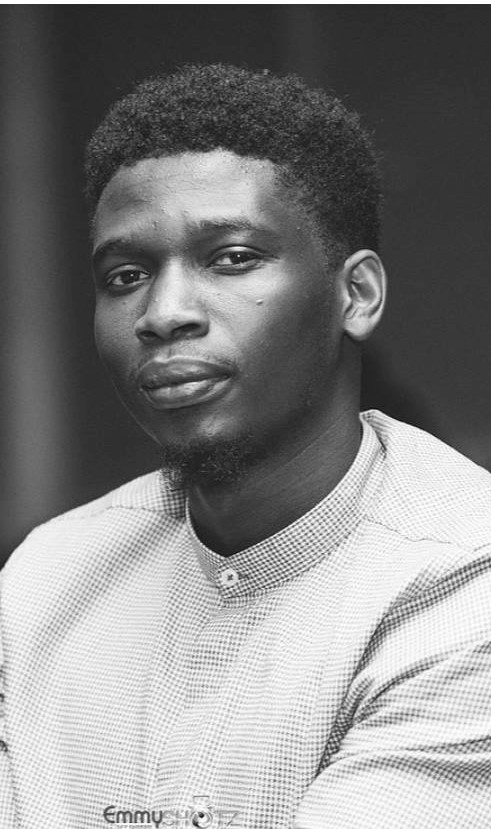
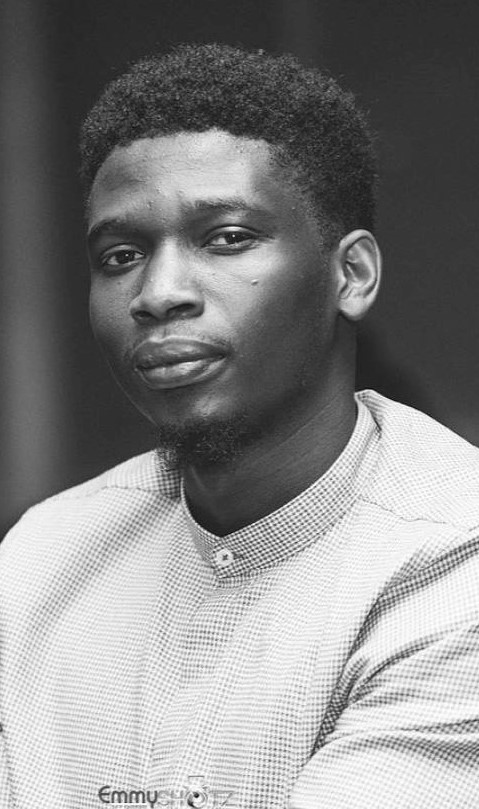
changed colour theme and edited pictures

Changed region(s): [[0.0, 0.0, 1.0, 1.0], [0.8184, 0.9889, 0.8476, 1.0], [0.1461, 0.9889, 0.1754, 1.0]]

diff --git a/src/style/abstracts/_variables.scss b/src/style/abstracts/_variables.scss
@@ -1,6 +1,6 @@
 // COLORS
-$primary-color: #200122;
-$secondary-color: #6f0000;
+$primary-color:#7C7C7C;
+$secondary-color: #646464;
 
 $white-color: #FFFFFF;
 
